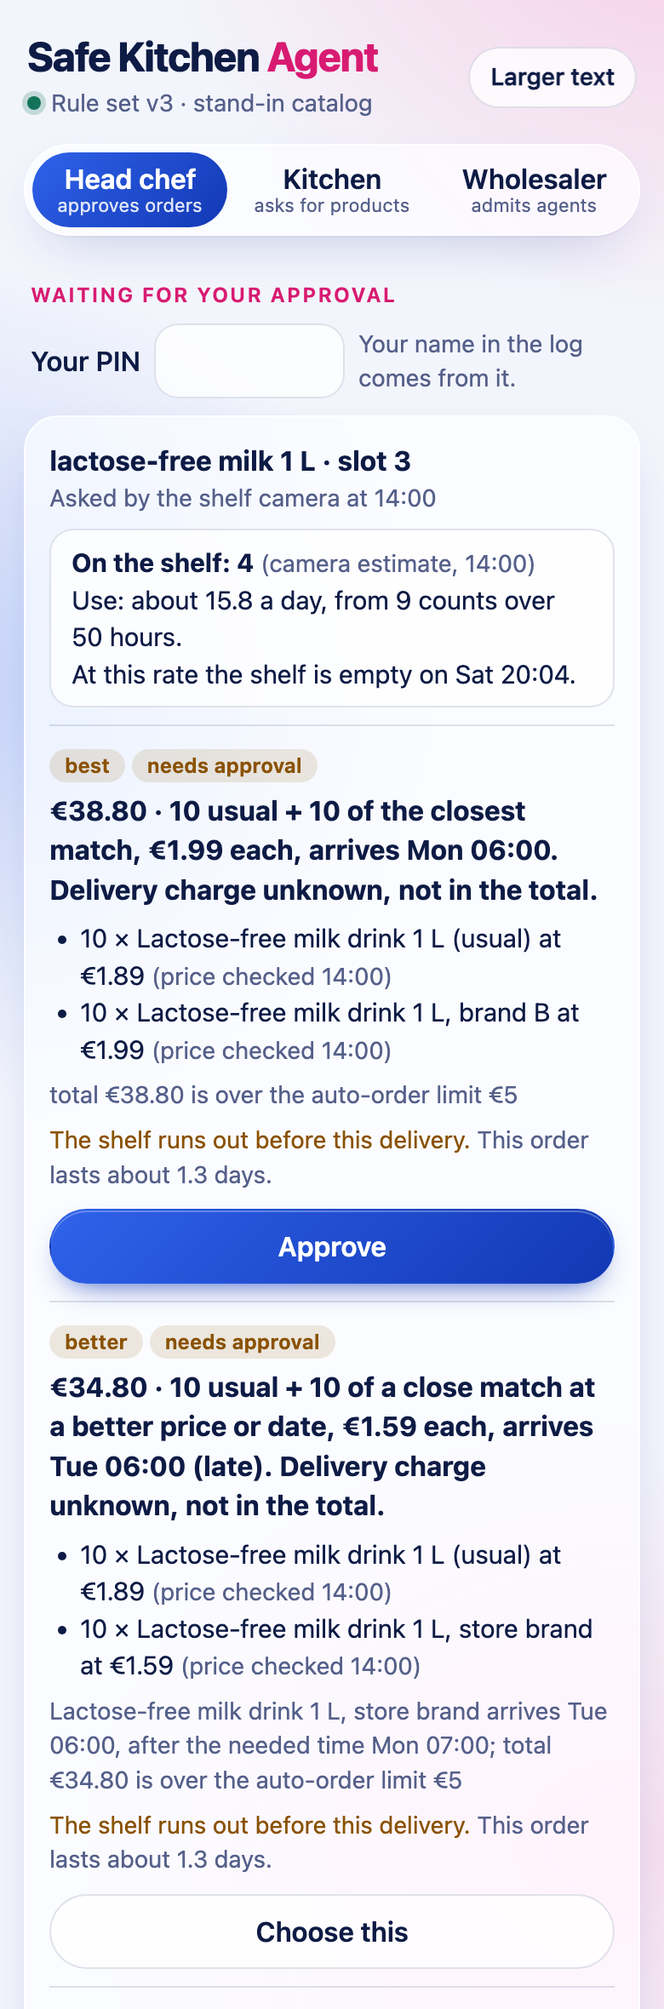
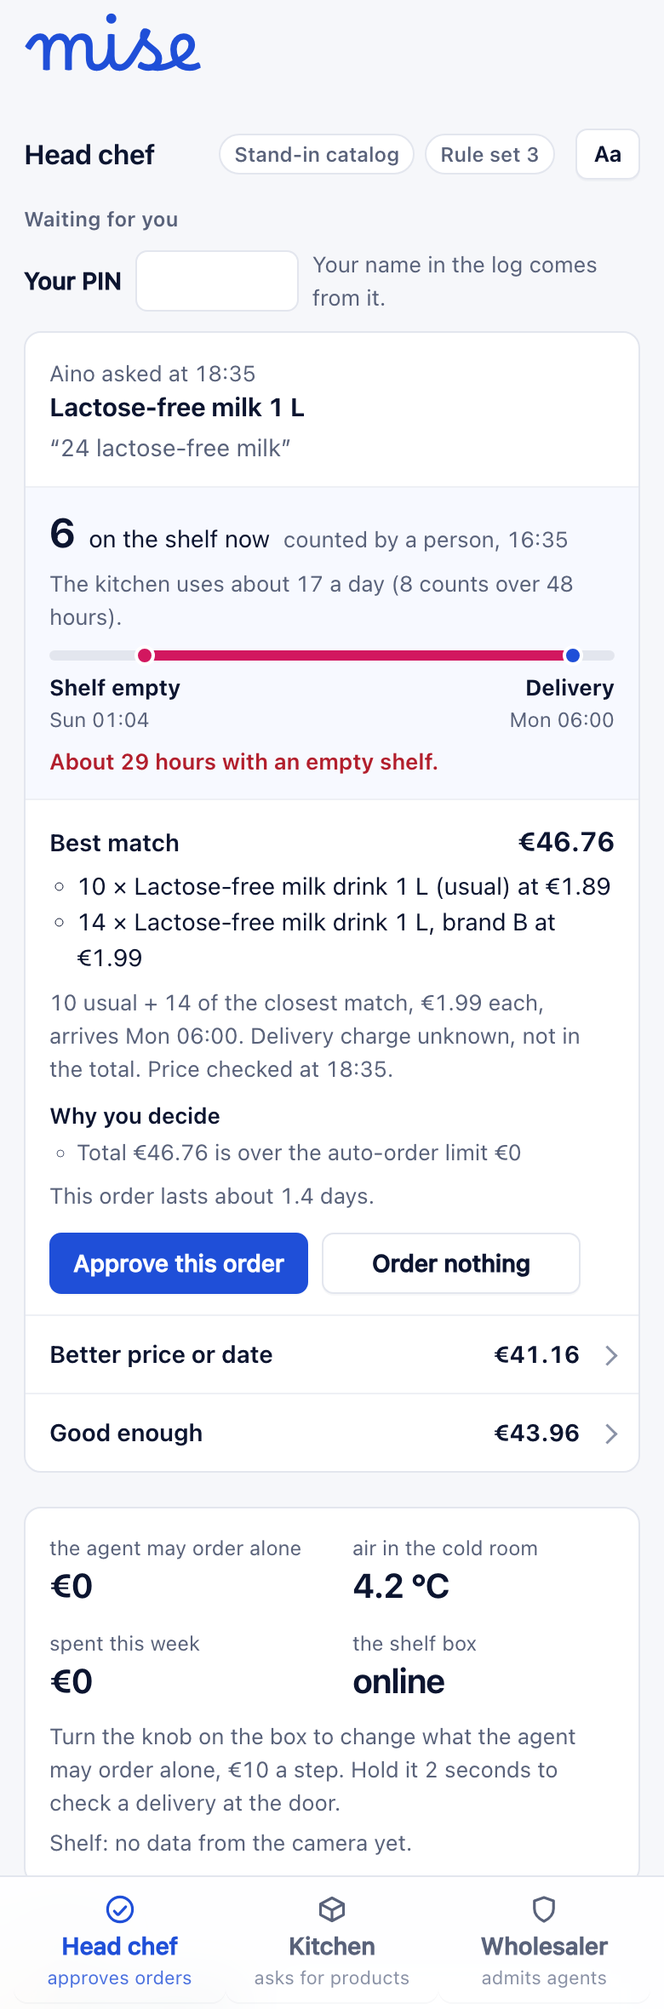
mise: a calmer page, the knob dial, and new screenshots
The ticket lists its reasons as short lines and shows who asked and
its state. A shelf slot takes two lines. A log entry shows two lines
and opens on a click. The strip of numbers carries a dial that mirrors
the knob on the box, with a bar at the signed limit. The footer sits
in the work column, so the sidebar runs the full height of the window.
On a phone the requests come before the numbers.

The readme has screenshots of this look.

Claude-Session: https://claude.ai/code/session_014VE9jrc2Y39DdVzY44JJeQ

diff --git a/web/approve.html b/web/approve.html
@@ -34,6 +34,7 @@
   .sidenote { display:none }
   .topbar { display:flex; align-items:center; gap:0.75rem; padding:0.25rem 0 0.875rem; flex-wrap:wrap }
   .topbar h1 { margin-right:auto }
+  #size { font-weight:650; letter-spacing:-0.02em } #size[aria-pressed="true"] { background:var(--blue-soft); color:var(--blue); border-color:transparent }
   #ruleset { display:flex; flex-wrap:wrap; gap:0.375rem }
   .chip { display:inline-flex; align-items:center; gap:0.3125rem; font-size:0.75rem; font-weight:550; padding:0.125rem 0.5rem; border-radius:99px;
       border:1px solid var(--line); background:var(--panel); color:var(--soft) }
@@ -52,7 +53,8 @@
   html[data-as="valio"] section[data-role~="valio"] { display:block }
   section[hidden] { display:none !important }
   main section { margin-bottom:1.25rem }
-  .foot { max-width:34rem; margin:0 auto; padding:0 0.875rem 5.5rem; display:flex; align-items:baseline; gap:0.625rem; flex-wrap:wrap; color:var(--faint) }
+  main { display:flex; flex-direction:column } main > .do { order:1 } main > .strip { order:2 } main > .see { order:3 }
+  .foot { padding:0 0 5.5rem; display:flex; align-items:baseline; gap:0.625rem; flex-wrap:wrap; color:var(--faint) }
   .foot .wordmark { font-size:1.25rem; color:var(--faint) } .foot .meta { color:var(--faint) }
 
   /* Controls */
@@ -115,8 +117,24 @@
   .options .name { font-weight:600 } .options .price { font-weight:650; font-size:1rem; white-space:nowrap }
   .lines { margin:0.25rem 0 0; padding-left:1rem; color:var(--ink) }
   .ticket > footer { padding:0 0.875rem 0.875rem } .ticket > footer .row { margin-top:0 }
+  .ticket .row > button { flex:0 0 auto; min-width:9.5rem }
+  .why { margin-top:0.5rem; font-size:0.8125rem; color:var(--soft) } .why > span { font-weight:600; color:var(--ink) }
+  .why ul { margin:0.125rem 0 0; padding-left:1rem } .why li { margin:0.0625rem 0 }
   details.alt { background:none; border:0; border-radius:0; margin:0 }
   details.alt > summary { padding:0; font-weight:400 } details.alt > summary .price { margin-left:auto; font-size:0.875rem }
+
+  .emptystate { display:flex; align-items:center; gap:0.75rem; padding:1rem 0.875rem; border:1px dashed var(--line); border-radius:0.625rem; color:var(--soft) }
+  .emptystate svg { width:1.25rem; height:1.25rem; color:var(--ok); flex:none } .emptystate b { display:block; color:var(--ink) }
+  .who { display:flex; align-items:center; gap:0.375rem 0.5rem; flex-wrap:wrap; margin-bottom:0.375rem } .who .state { margin-left:auto }
+  .who .meta { order:3; flex-basis:100% }
+  .kind { font-size:0.6875rem; font-weight:600; padding:0.0625rem 0.4375rem; border-radius:0.25rem; background:var(--blue-soft); color:var(--blue) }
+  .dialrow { display:grid; grid-template-columns:auto minmax(0,1fr); gap:1.25rem; align-items:center }
+  .dial { width:5.75rem; height:5.75rem; color:var(--ink) } .dial .ticks { color:var(--faint) }
+  .dial .track { stroke:var(--line) } .dial .fill { stroke:var(--blue) } .dial .fill.off { stroke:var(--faint) }
+  .dial .hand circle { fill:var(--panel); stroke:currentColor; stroke-width:1.5 }
+  .help { margin:0.75rem 0 0; padding-top:0.625rem; border-top:1px solid var(--line2); font-size:0.75rem; color:var(--faint) }
+  .live { color:var(--ok) }
+  .navlabel { display:none }
 
   /* An alert: a banner, not a wall */
   .alert { background:var(--pink-soft); color:var(--ink); border:1px solid color-mix(in srgb, var(--pink) 35%, var(--line)); border-left:3px solid var(--pink);
@@ -125,15 +143,19 @@
 
   /* Lists inside panels: rows with hairlines */
   .slots { list-style:none; margin:0; padding:0; background:var(--panel); border:1px solid var(--line); border-radius:0.625rem }
-  .slots li { padding:0.625rem 0.875rem; border-top:1px solid var(--line2) } .slots li:first-child { border-top:0 }
+  .slots li { padding:0.625rem 0.875rem; border-top:1px solid var(--line2); display:grid; grid-template-columns:minmax(0,1fr) auto;
+    grid-template-areas:"name qty" "meta count"; gap:0.25rem 1rem; align-items:center }
+  .slots li:first-child { border-top:0 } .slots li.empty { display:block }
+  .slots .what { display:contents } .slots .what > b { grid-area:name } .slots .what > .meta { grid-area:meta; align-self:start }
+  .slots .qty { grid-area:qty; text-align:right; min-width:8.5rem } .slots .count { grid-area:count; justify-content:flex-end; align-self:start }
   .slots .head { display:flex; justify-content:space-between; gap:0.75rem; align-items:baseline }
   .slots .num { white-space:nowrap } .slots .num small { font-weight:400; color:var(--soft); font-size:0.8125rem }
-  .level { position:relative; height:0.25rem; border-radius:99px; background:var(--line); margin:0.375rem 0 }
+  .level { position:relative; height:0.25rem; border-radius:99px; background:var(--line); margin:0.25rem 0 0 }
   .level i { position:absolute; left:0; top:0; bottom:0; border-radius:99px; background:var(--blue) } .lowslot .level i { background:var(--pink) }
   .level b { position:absolute; top:-0.1875rem; bottom:-0.1875rem; width:1.5px; background:var(--faint) }
   .lowslot .num { color:var(--pink) }
-  .slots .count, .sheet .count { display:flex; gap:0.375rem; margin-top:0.5rem }
-  .slots .count input, .sheet .count input { width:5.5rem; flex:none; min-height:1.875rem; padding:0.1875rem 0.5rem }
+  .slots .count, .sheet .count { display:flex; gap:0.375rem } .sheet .count { margin-top:0.5rem }
+  .slots .count input, .sheet .count input { width:4.75rem; flex:none; min-height:1.875rem; padding:0.1875rem 0.5rem }
   .usefirst { background:var(--panel); border:1px solid var(--line); border-radius:0.625rem }
   .usefirst li { padding:0.625rem 0.875rem; border-top:1px solid var(--line2); border-left:3px solid var(--warn) } .usefirst li:first-child { border-top:0; border-top-left-radius:0.5rem }
   .usefirst li:last-child { border-bottom-left-radius:0.5rem }
@@ -159,6 +181,9 @@
   .roll { padding:0.25rem 0.875rem 0.75rem }
   .log li { display:flex; gap:0.75rem; padding:0.4375rem 0; border-top:1px solid var(--line2); font-size:0.8125rem } .log li:first-child { border-top:0 }
   .log time { color:var(--faint); flex:none; font-variant-numeric:tabular-nums }
+  .log li[data-line] { cursor:pointer } .log li[data-line]:hover span { color:var(--ink) }
+  .log li span { display:-webkit-box; -webkit-box-orient:vertical; -webkit-line-clamp:2; overflow:hidden; color:var(--soft) }
+  .log li.open span { -webkit-line-clamp:unset; color:var(--ink) }
   pre { white-space:pre-wrap; word-break:break-word; font:0.6875rem/1.5 ui-monospace, "SF Mono", Menlo, monospace; max-height:20rem; overflow:auto; margin:0;
       background:var(--bg); border:1px solid var(--line2); border-radius:0.375rem; padding:0.5rem }
 
@@ -172,6 +197,7 @@
     .app { max-width:none; margin:0; padding:0; display:grid; grid-template-columns:14.5rem minmax(0,1fr); min-height:100vh }
     .side { position:sticky; top:0; align-self:start; height:100vh; padding:1rem 0.75rem; border-right:1px solid var(--line); background:var(--panel); display:flex; flex-direction:column }
     .brand { padding:0.25rem 0.5rem 1rem }
+    .navlabel { display:block; padding:0 0.5rem 0.375rem; font-size:0.6875rem; font-weight:600; color:var(--faint) }
     .roles { position:static; flex-direction:column; gap:0.125rem; padding:0; background:none; border:0; -webkit-backdrop-filter:none; backdrop-filter:none }
     .roles button { flex:none; flex-direction:row; align-items:center; gap:0.625rem; text-align:left; padding:0.4375rem 0.5rem; min-height:0; color:var(--ink); font-weight:550 }
     .roles button:hover { background:var(--line2) }
@@ -182,9 +208,11 @@
     .topbar { position:sticky; top:0; z-index:5; padding:0.875rem 0; margin-bottom:1rem; background:color-mix(in srgb, var(--bg) 88%, transparent); border-bottom:1px solid var(--line);
         -webkit-backdrop-filter:blur(12px); backdrop-filter:blur(12px) }
     main { display:grid; grid-template-columns:minmax(0,1.25fr) minmax(0,1fr); gap:0 2rem; align-items:start }
+    main > .do, main > .strip, main > .see { order:0 }
+    .who .meta { order:0; flex-basis:auto }
     main > .strip { grid-column:1 / -1 }
     #result { bottom:1.25rem }
-    .foot { max-width:none; margin-left:14.5rem; padding:0 2rem 1.5rem }
+    .foot { max-width:none; margin:1rem 0 0; padding:0 0 0.5rem }
   }
   @media (prefers-reduced-motion: reduce) { button:active { transform:none } summary::after { transition:none } }
 </style>
@@ -194,6 +222,7 @@
 <aside class="side">
   <div class="brand"><span class="wordmark" aria-label="mise">mise</span></div>
   <!-- Three people use this system. Each one sees only the own part. -->
+  <div class="navlabel">Workspaces</div>
   <nav class="roles" role="tablist" aria-label="Who you are">
     <button role="tab" data-pick="chef"><svg viewBox="0 0 16 16" aria-hidden="true"><path d="M8 1.5a6.5 6.5 0 1 0 0 13 6.5 6.5 0 0 0 0-13Zm3 5.1-3.6 3.9a.6.6 0 0 1-.9 0L5 8.9" fill="none" stroke="currentColor" stroke-width="1.4" stroke-linecap="round" stroke-linejoin="round"/></svg><span>Head chef<small>approves orders</small></span></button>
     <button role="tab" data-pick="kitchen"><svg viewBox="0 0 16 16" aria-hidden="true"><path d="M2 5.2 8 2l6 3.2v5.6L8 14l-6-3.2V5.2Zm0 0L8 8.4m0 0 6-3.2M8 8.4V14" fill="none" stroke="currentColor" stroke-width="1.4" stroke-linejoin="round"/></svg><span>Kitchen<small>asks for products</small></span></button>
@@ -205,16 +234,16 @@
 <div class="topbar">
   <h1 id="pageTitle">Head chef</h1>
   <div class="meta" id="ruleset"></div>
-  <button id="size" class="small" aria-pressed="false">Larger text</button>
+  <button id="size" class="small" aria-pressed="false" aria-label="Larger text" title="Larger text">Aa</button>
 </div>
 <main>
   <p class="reasons" id="result" role="status" aria-live="polite"></p>
 
   <section data-role="chef" class="strip">
     <div class="sheet">
-      <dl class="glance" id="stats"></dl>
-      <p class="meta" style="margin:0.625rem 0 0">Turn the knob on the box to change what the agent may order alone, €10 a step. Hold it 2 seconds to check a delivery at the door. <span id="knobNote"></span></p>
-      <p class="meta" id="shelf" style="margin:0.25rem 0 0"></p>
+      <div class="dialrow"><svg class="dial" id="dial" viewBox="0 0 150 150" role="img" aria-label="Spend limit"></svg>
+        <dl class="glance" id="stats"></dl></div>
+      <p class="help">The knob on the box sets the first number, €10 a step. Hold it 2 seconds to check a delivery at the door. <span id="knobNote"></span> <span id="shelf"></span></p>
     </div>
   </section>
 
@@ -229,7 +258,7 @@
     </div>
     <p class="demopins" data-pins-for="pin" hidden></p>
     <div id="coldAlert" aria-live="assertive"></div>
-    <div id="approvals" aria-live="polite"><p class="empty">Nothing waits for you.</p></div>
+    <div id="approvals" aria-live="polite"><div class="emptystate"><svg viewBox="0 0 16 16" aria-hidden="true"><path d="M8 1.5a6.5 6.5 0 1 0 0 13 6.5 6.5 0 0 0 0-13Zm3 5.1-3.6 3.9a.6.6 0 0 1-.9 0L5 8.900" fill="none" stroke="currentColor" stroke-width="1.4" stroke-linecap="round" stroke-linejoin="round"/></svg><div><b>All clear</b><span>No request waits for you.</span></div></div></div>
   </section>
 
   <section data-role="kitchen">
@@ -355,10 +384,11 @@
   </section>
   </div>
 </main>
-</div>
-</div>
 <!-- The name is "mise" on the lid of the box and "en place" on its base. The page follows the box. -->
 <footer class="foot"><span class="wordmark">en place</span> <span class="meta">Everything in its place before service: the stock, the rules and the orders.</span></footer>
+</div>
+</div>
+
 <script>
 const $ = (id) => document.getElementById(id);
 const esc = (s) => String(s ?? "").replace(/[&<>"]/g, c => ({"&":"&amp;","<":"&lt;",">":"&gt;",'"':"&quot;"}[c]));
@@ -409,6 +439,19 @@ function optionStock(o) {
   return o.order_lasts_days != null ? `<p class="reasons">This order lasts about ${o.order_lasts_days} days.</p>` : "";
 }
 
+// The rule check names the product in every reason. On a ticket the product is the heading, so the name comes off.
+function whyList(o) {
+  const names = o.lines.map(l => l.name).sort((a, b) => b.length - a.length);
+  return o.reasons.flatMap(x => x.split("; ")).map(x => {
+    for (const n of names) x = x.split(n + ": ").join("").split(n + " is ").join("It is ").split(n + " ").join("It ").split(n).join("it");
+    return cap(x.trim());
+  });
+}
+
+const EMPTY = `<div class="emptystate"><svg viewBox="0 0 16 16" aria-hidden="true"><path d="M8 1.5a6.5 6.5 0 1 0 0 13 6.5 6.5 0 0 0 0-13Zm3 5.1-3.6 3.9a.6.6 0 0 1-.9 0L5 8.900" fill="none" stroke="currentColor" stroke-width="1.4" stroke-linecap="round" stroke-linejoin="round"/></svg><div><b>All clear</b><span>No request waits for you.</span></div></div>`;
+// Who started a request, as a short label: the shelf, a person in the kitchen, or an agent of another company.
+const kind = (a) => a.asked_by === "device" || (a.slot && !a.request) ? "Shelf" : a.request ? "Kitchen" : "Outside agent";
+
 let shownApprovals = null;
 function renderApprovals(list) {
   // Redraw only when the requests change, so a screen reader is not interrupted
@@ -416,12 +459,14 @@ function renderApprovals(list) {
   const key = JSON.stringify(list.map(a => [a.id, a.options.map(o => o.total_eur), a.stock && [a.stock.units, a.stock.use_per_day]]));
   if (key === shownApprovals) return;
   shownApprovals = key;
-  if (!list.length) { $("approvals").innerHTML = '<p class="empty">Nothing waits for you.</p>'; return; }
+  if (!list.length) { $("approvals").innerHTML = EMPTY; return; }
   $("approvals").innerHTML = list.map(a => {
     const first = a.options[0] && a.options[0].lines[0];
     return `<article class="ticket">
       <header>
-        <div class="meta">${a.asked_by ? `${esc(cap(WHO[a.asked_by] || a.asked_by))} asked` : "Asked"} at ${esc(a.created.slice(11,16))}${a.slot ? `, shelf slot ${a.slot}` : ""}</div>
+        <div class="who"><span class="kind">${kind(a)}</span>
+          <span class="meta">${a.asked_by ? esc(cap(WHO[a.asked_by] || a.asked_by)) : "Asked"}, ${esc(a.created.slice(11,16))}${a.slot ? `, shelf slot ${a.slot}` : ""}</span>
+          <span class="state ${a.options.length ? "warm" : "breach"}">${a.options.length ? "Needs your approval" : "Nothing to order"}</span></div>
         <h3>${esc(a.what[0].toUpperCase() + a.what.slice(1))}</h3>
         ${a.request ? `<p class="quote">“${esc(a.request)}”</p>` : ""}
       </header>
@@ -431,15 +476,16 @@ function renderApprovals(list) {
           ${i === 0 ? `<div class="top"><span class="name">${esc(NAMES[o.label] || o.label)}</span><span class="price">${euro(o.total_eur)}</span></div>` : ""}
           <ul class="lines">${o.lines.map(l => `<li>${l.quantity} × ${esc(l.name)} at ${euro(l.unit_price_eur)}</li>`).join("")}</ul>
           <p class="reasons">${esc(o.trade_off)} Price checked at ${esc(o.lines[0].price_checked_at.slice(11,16))}.</p>
-          <p class="reasons">Why you decide: ${o.reasons.map(esc).join("; ")}.</p>
+          <div class="why"><span>Why you decide</span><ul>${whyList(o).map(x => `<li>${esc(x)}</li>`).join("")}</ul></div>
           ${o.reasons.some(x => x.includes("check the label")) ? `<p class="reasons"><b>Read the label before you approve.</b>
             The agent keeps your answer and does not ask again for this product.</p>` : ""}
           ${a.stock && a.stock.options[i] ? optionStock(a.stock.options[i]) : ""}
-          <div class="row"><button class="${i===0?"primary":""}" data-a="${a.id}" data-o="${i}">${i===0?"Approve this order":"Choose this one"}</button></div>
+          <div class="row"><button class="${i===0?"primary":""}" data-a="${a.id}" data-o="${i}">${i===0?"Approve this order":"Choose this one"}</button>
+            ${i === 0 ? `<button data-a="${a.id}" data-skip="1">Order nothing</button>` : ""}</div>
         ${i === 0 ? "" : "</details>"}</li>`).join("")}</ol>
       ${a.options.length ? "" : `<div class="shelfnow"><p style="margin:0"><b class="forbidden">The agent found nothing that it may order.</b>
         The kitchen still needs this product. Order it another way, or change the rules.</p></div>`}
-      <footer><div class="row"><button data-a="${a.id}" data-skip="1">${a.options.length ? "Order nothing" : "I have seen this"}</button></div></footer>
+      ${a.options.length ? "" : `<footer><div class="row"><button data-a="${a.id}" data-skip="1">I have seen this</button></div></footer>`}
     </article>`; }).join("");
 }
 
@@ -512,12 +558,13 @@ function drawStock(slots) {
     const mark = s.reorder_below && s.target_units ? Math.min(100, 100 * s.reorder_below / s.target_units) : null;
     const low = s.units != null && s.reorder_below != null && s.units < s.reorder_below;
     const name = s.product ? s.product[0].toUpperCase() + s.product.slice(1) : "Slot " + s.slot;
-    return `<li class="${low ? "lowslot" : ""}"><div class="head"><b>${esc(name)}</b>
-        <span class="num">${s.units == null ? "?" : s.units}<small> of ${s.target_units}</small></span></div>
-      <div class="level"><i style="width:${share}%"></i>${mark == null ? "" : `<b style="left:${mark}%" title="Reorder below ${s.reorder_below}"></b>`}</div>
-      <div class="meta">${s.units == null ? "Nobody counted this slot yet." : `${cap(SOURCE[s.source] || esc(s.source))}, ${esc(s.counted_at.slice(11, 16))}${s.stale ? `, ${Math.round(s.age_hours)} hours old` : ""}.`}
+    return `<li class="${low ? "lowslot" : ""}">
+      <div class="what"><b>${esc(name)}</b>
+        <div class="meta">${s.units == null ? "Nobody counted this slot yet." : `${cap(SOURCE[s.source] || esc(s.source))}, ${esc(s.counted_at.slice(11, 16))}${s.stale ? `, ${Math.round(s.age_hours)} hours old` : ""}.`}
         ${s.on_order ? ` <b>${s.on_order} on order.</b>` : s.request_open ? " <b>A request waits for the head chef.</b>" : ""}
-        ${s.use_per_day ? ` About ${s.use_per_day} a day, so empty ${esc(when(s.runs_out_at))}. A full shelf lasts ${s.days_of_use_when_full} days.` : ""}</div>
+        ${s.use_per_day ? ` About ${s.use_per_day} a day, empty ${esc(when(s.runs_out_at))}.` : ""}</div></div>
+      <div class="qty"><span class="num">${s.units == null ? "?" : s.units}<small> of ${s.target_units}</small></span>
+        <div class="level"><i style="width:${share}%"></i>${mark == null ? "" : `<b style="left:${mark}%" title="Reorder below ${s.reorder_below}"></b>`}</div></div>
       <div class="count"><input type="number" min="0" inputmode="numeric" placeholder="Count" aria-label="Count for ${esc(name)}" data-count="${s.slot}">
         <button class="small" data-save="${s.slot}">Save</button></div></li>`; }).join("") || '<li class="empty">No shelf slots in the rule set.</li>';
 }
@@ -643,6 +690,30 @@ document.querySelectorAll("[data-pick]").forEach(b => b.onclick = () => setRole(
 try { $("who").value = localStorage.getItem("who") || ""; } catch (e) {}
 $("who").addEventListener("change", () => { try { localStorage.setItem("who", $("who").value); } catch (e) {} });
 
+// The dial mirrors the knob on the box: a 270° sweep, a tick for each €10, and a bar at the limit the chef signed.
+const KNOB_MAX = 300, SIGNED_LIMIT = 150;
+function renderDial(eur, online) {
+  const cx = 75, cy = 75, rad = 58, a0 = 135, sweep = 270;
+  const pt = (deg, d) => [cx + d * Math.cos(deg * Math.PI / 180), cy + d * Math.sin(deg * Math.PI / 180)].map(n => n.toFixed(1));
+  const arc = (from, to) => `M${pt(from, rad).join(" ")} A${rad} ${rad} 0 ${to - from > 180 ? 1 : 0} 1 ${pt(to, rad).join(" ")}`;
+  const v = Math.max(0, Math.min(KNOB_MAX, eur || 0)), at = a0 + sweep * v / KNOB_MAX, signed = a0 + sweep * SIGNED_LIMIT / KNOB_MAX;
+  const line = (deg, from, to, w) => { const [x1, y1] = pt(deg, from), [x2, y2] = pt(deg, to);
+    return `<line x1="${x1}" y1="${y1}" x2="${x2}" y2="${y2}" stroke="currentColor" stroke-width="${w}" stroke-linecap="round"/>`; };
+  let ticks = "";
+  for (let i = 0; i <= 30; i++) ticks += line(a0 + sweep * i / 30, rad + 8, rad + (i % 5 ? 12 : 16), i % 5 ? 1 : 2);
+  $("dial").innerHTML = `<g class="ticks">${ticks}</g>
+    <path d="${arc(a0, a0 + sweep)}" fill="none" class="track" stroke-width="8"/>
+    ${v > 0 ? `<path d="${arc(a0, at)}" fill="none" class="${online ? "fill" : "fill off"}" stroke-width="8"/>` : ""}
+    <g class="hand">${line(signed, rad - 7, rad + 17, 3)}<circle cx="${cx}" cy="${cy}" r="38"/>${eur == null ? "" : line(at, 0, rad - 18, 3)}</g>`;
+  $("dial").setAttribute("aria-label", eur == null ? "The box did not send its limit yet" : `Spend limit €${v}, the signed limit is €${SIGNED_LIMIT}`);
+}
+
+let shownStory = null;
+const openLines = new Set();
+$("story").addEventListener("click", (e) => {
+  const li = e.target.closest("li[data-line]"); if (!li) return;
+  li.classList.toggle("open") ? openLines.add(li.dataset.line) : openLines.delete(li.dataset.line);
+});
 $("more").onclick = () => { showAll = !showAll; tick(); };
 $("dataBox").addEventListener("toggle", tick);
 
@@ -686,18 +757,23 @@ async function tick() {
       <span class="chip">Rule set ${dev.rule_set_version}</span>`;
     forceOptions(dev.catalog);
     $("stats").innerHTML = [
-      ["the agent may order alone", dev.auto_limit_eur == null ? "–" : `€${dev.auto_limit_eur}`],
-      ["air in the cold room", dev.temperature_c == null ? "–" : `<span class="${dev.alarm ? "alarm" : ""}">${dev.temperature_c.toFixed(1)} °C</span>`],
-      ["spent this week", `€${dev.weekly_spent_eur.toFixed(0)}`],
-      ["the shelf box", dev.online ? "online" : `<span class="alarm">offline</span>`],
+      ["Agent orders alone up to", dev.auto_limit_eur == null ? "–" : `€${Number(dev.auto_limit_eur).toLocaleString("en")}`],
+      ["Cold room air", dev.temperature_c == null ? "–" : `<span class="${dev.alarm ? "alarm" : ""}">${dev.temperature_c.toFixed(1)} °C</span>`],
+      ["Spent this week", `€${Math.round(dev.weekly_spent_eur).toLocaleString("en")}`],
+      ["Shelf box", dev.online ? `<span class="live">Online</span>` : `<span class="alarm">Offline</span>`],
     ].map(([k, v]) => `<div><dd>${v}</dd><dt>${k}</dt></div>`).join("");
+    renderDial(dev.auto_limit_eur, dev.online);
     $("knobNote").textContent = dev.auto_limit_eur == null ? "The box did not send its limit yet, so the limit of the rule set counts."
       : dev.online ? "" : "The box is offline. This is the last limit that it sent.";
-    const slots = Object.entries(dev.slots).map(([k, v]) => `slot ${k} ${v.state}`).join(" · ");
-    $("shelf").textContent = slots ? `Shelf: ${slots}` : "Shelf: no data from the camera yet.";
+    const slots = Object.entries(dev.slots).map(([k, v]) => `slot ${k} ${v.state}`).join(", ");
+    $("shelf").textContent = slots ? `The camera reads: ${slots}.` : "";
     const lines = log.story.slice().reverse();
-    $("story").innerHTML = lines.slice(0, showAll ? lines.length : SHORT).map(l =>
-      `<li><time>${esc(l.slice(0, 5))}</time><span>${esc(l.slice(6))}</span></li>`).join("") || '<li class="empty">Nothing yet.</li>';
+    const shown = lines.slice(0, showAll ? lines.length : SHORT), storyKey = shown.join("\n");
+    if (storyKey !== shownStory) {
+      shownStory = storyKey;
+      $("story").innerHTML = shown.map(l => `<li class="${openLines.has(l) ? "open" : ""}" data-line="${esc(l)}" title="Click to read all of it">
+        <time>${esc(l.slice(0, 5))}</time><span>${esc(l.slice(6))}</span></li>`).join("") || '<li class="empty">Nothing yet.</li>';
+    }
     $("more").hidden = lines.length <= SHORT;
     $("more").textContent = showAll ? "Show the latest only" : `Show ${lines.length - SHORT} more`;
     $("more").setAttribute("aria-expanded", String(showAll));
@@ -707,7 +783,7 @@ async function tick() {
 function setSize(large) {
   document.documentElement.classList.toggle("large", large);
   $("size").setAttribute("aria-pressed", String(large));
-  $("size").textContent = large ? "Normal text" : "Larger text";
+  $("size").title = large ? "Normal text" : "Larger text"; $("size").setAttribute("aria-label", $("size").title);
   try { localStorage.setItem("large", large ? "1" : "0"); } catch (e) {}
 }
 try { setSize(localStorage.getItem("large") === "1"); } catch (e) {}

diff --git a/README.md b/README.md
@@ -1,4 +1,4 @@
-# Aimo Agent Gateway and the Safe Kitchen Agent
+# mise: the Aimo Agent Gateway and its kitchen
 
 Our entry to "Trusted Trade Agents" by Valio Aimo. Read `HANDBOOK.md` for the full explanation with pictures. The build brief is `DEMO_PLAN.md`.
 
@@ -13,11 +13,15 @@ A language model can search, compare and explain. Plain code decides what is all
 
 ## What it looks like
 
-One page serves three people. Each person sees only the own part.
+The page is called mise. One page serves three people, and each person sees only the own part.
+
+![The head chef's page: one request with its stock outlook, the pack to use first, the cold room and the log](docs/screenshots/head-chef.png)
 
 **The head chef approves.** The card says who asked, what is on the shelf, how fast the kitchen uses the product and when the shelf runs out.
 
-<img src="docs/screenshots/head-chef-phone.png" alt="The head chef's phone with one request to approve, its stock outlook and three options" width="360">
+The same page on the head chef's phone:
+
+<img src="docs/screenshots/head-chef-phone.png" alt="The head chef's phone with one request to approve and its stock outlook" width="360">
 
 **The kitchen asks, and sees the shelf.** Each slot shows its count, its use per day and what is on order. A person can type a count.
 
